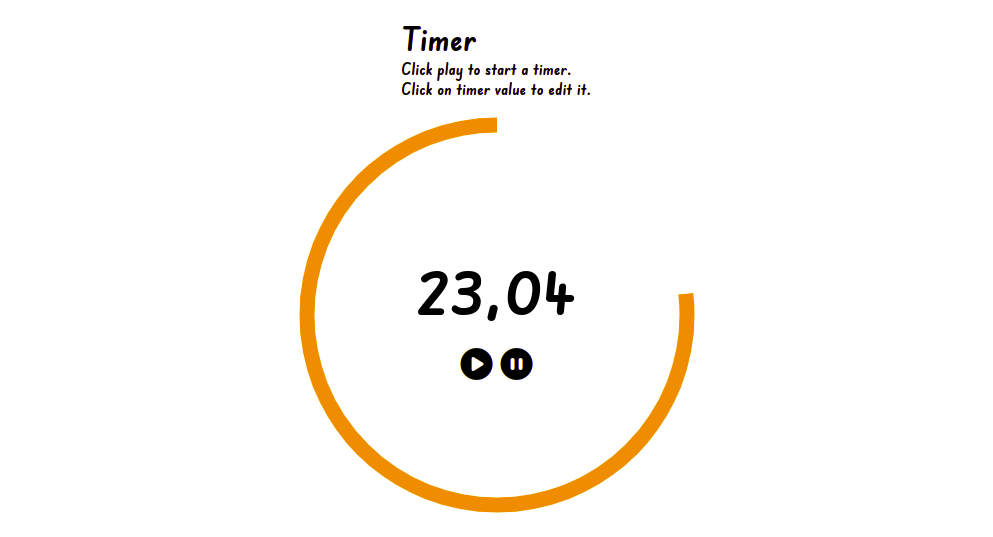
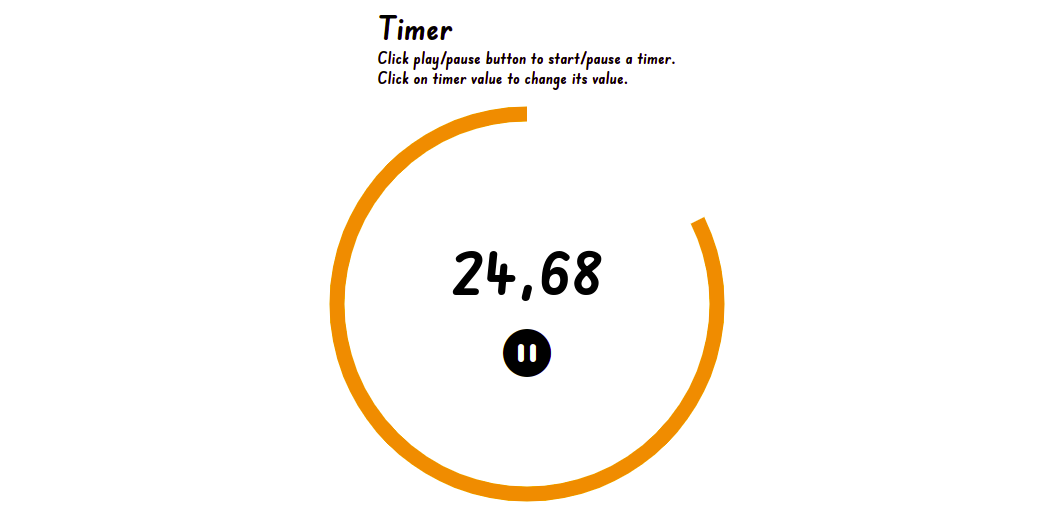
Refactor code.

diff --git a/js/timer.js b/js/timer.js
@@ -1,16 +1,9 @@
 "use strict";
 
-// TODO:
-// - pause button is not needed - if user presses start button when timer
-// is working than the button can be replaced with pause button (functionality)
-
-// - add border around circle animation (slot)
-
 class Timer {
-  constructor(durationInput, startButton, pauseButton, callbacks) {
+  constructor(durationInput, startButton, callbacks) {
     this.durationInput = durationInput;
     this.startButton = startButton;
-    this.pauseButton = pauseButton;
 
     this.isWorking = false;
 
@@ -24,17 +17,30 @@ class Timer {
     }
 
     this.startButton.addEventListener("click", this.start);
-    this.pauseButton.addEventListener("click", this.pause);
+  }
+
+  toggleStartPauseButton() {
+    this.startButton
+      .querySelector(".fa-circle-play")
+      .classList.toggle("hidden");
+    this.startButton
+      .querySelector(".fa-circle-pause")
+      .classList.toggle("hidden");
   }
 
   // starts the timer
   start = () => {
     if (this.isWorking) {
       this.pause();
+      // change pause icon to play icon
+      this.toggleStartPauseButton();
       return;
     }
 
     this.isWorking = true;
+
+    // change play icon to pause icon
+    this.toggleStartPauseButton();
 
     if (this.onStart) {
       this.onStart(this.timeRemaining);

diff --git a/index.html b/index.html
@@ -10,15 +10,15 @@
       href="https://cdnjs.cloudflare.com/ajax/libs/font-awesome/6.1.1/css/all.min.css"
     />
     <link rel="stylesheet" href="styles.css" />
-    <script src="timer.js" defer></script>
-    <script src="animcircle.js" defer></script>
-    <script src="app.js" defer></script>
+    <script src="js/timer.js" defer></script>
+    <script src="js/animcircle.js" defer></script>
+    <script src="js/app.js" defer></script>
   </head>
   <body>
     <header>
       <h1>Timer</h1>
-      <p>Click play to start a timer.</p>
-      <p>Click on timer value to edit it.</p>
+      <p>Click play/pause button to start/pause a timer.</p>
+      <p>Click on timer value to change its value.</p>
     </header>
     <main>
       <div class="timer">
@@ -27,12 +27,11 @@
           <div class="buttons">
             <button id="timer-start">
               <i class="fa-solid fa-circle-play"></i>
-            </button>
-            <button id="timer-pause">
-              <i class="fa-solid fa-circle-pause"></i>
+              <i class="fa-solid fa-circle-pause hidden"></i>
             </button>
           </div>
         </div>
+
         <svg id="timer-svg">
           <circle
             r="190"

diff --git a/js/app.js b/js/app.js
@@ -7,7 +7,7 @@ const pauseButton = document.getElementById("timer-pause");
 const circle = document.querySelector("#timer-svg circle");
 const animCircle = new AnimCircle(circle, AnimCircle.clockwise);
 
-const timer = new Timer(durationInput, startButton, pauseButton, {
+const timer = new Timer(durationInput, startButton, {
   onStart(totalDuration) {
     console.log("Timer has started!");
     animCircle.reset(totalDuration);

diff --git a/styles.css b/styles.css
@@ -67,7 +67,7 @@ body {
   background-color: transparent;
   border: none;
   cursor: pointer;
-  font-size: 2rem;
+  font-size: 3rem;
 }
 
 .timer button:focus {
@@ -81,4 +81,8 @@ body {
 #timer-svg {
   width: 400px;
   height: 400px;
+}
+
+.hidden {
+  display: none;
 }

diff --git a/README.md b/README.md
@@ -5,7 +5,8 @@ A timer with animations.
 ## Features
 
 - displays a timer
-- allows user to change timer value
+- user can start/pause the timer
+- user can change timer's value
 - draws an animated border around the timer
 
 ## Technologies used
